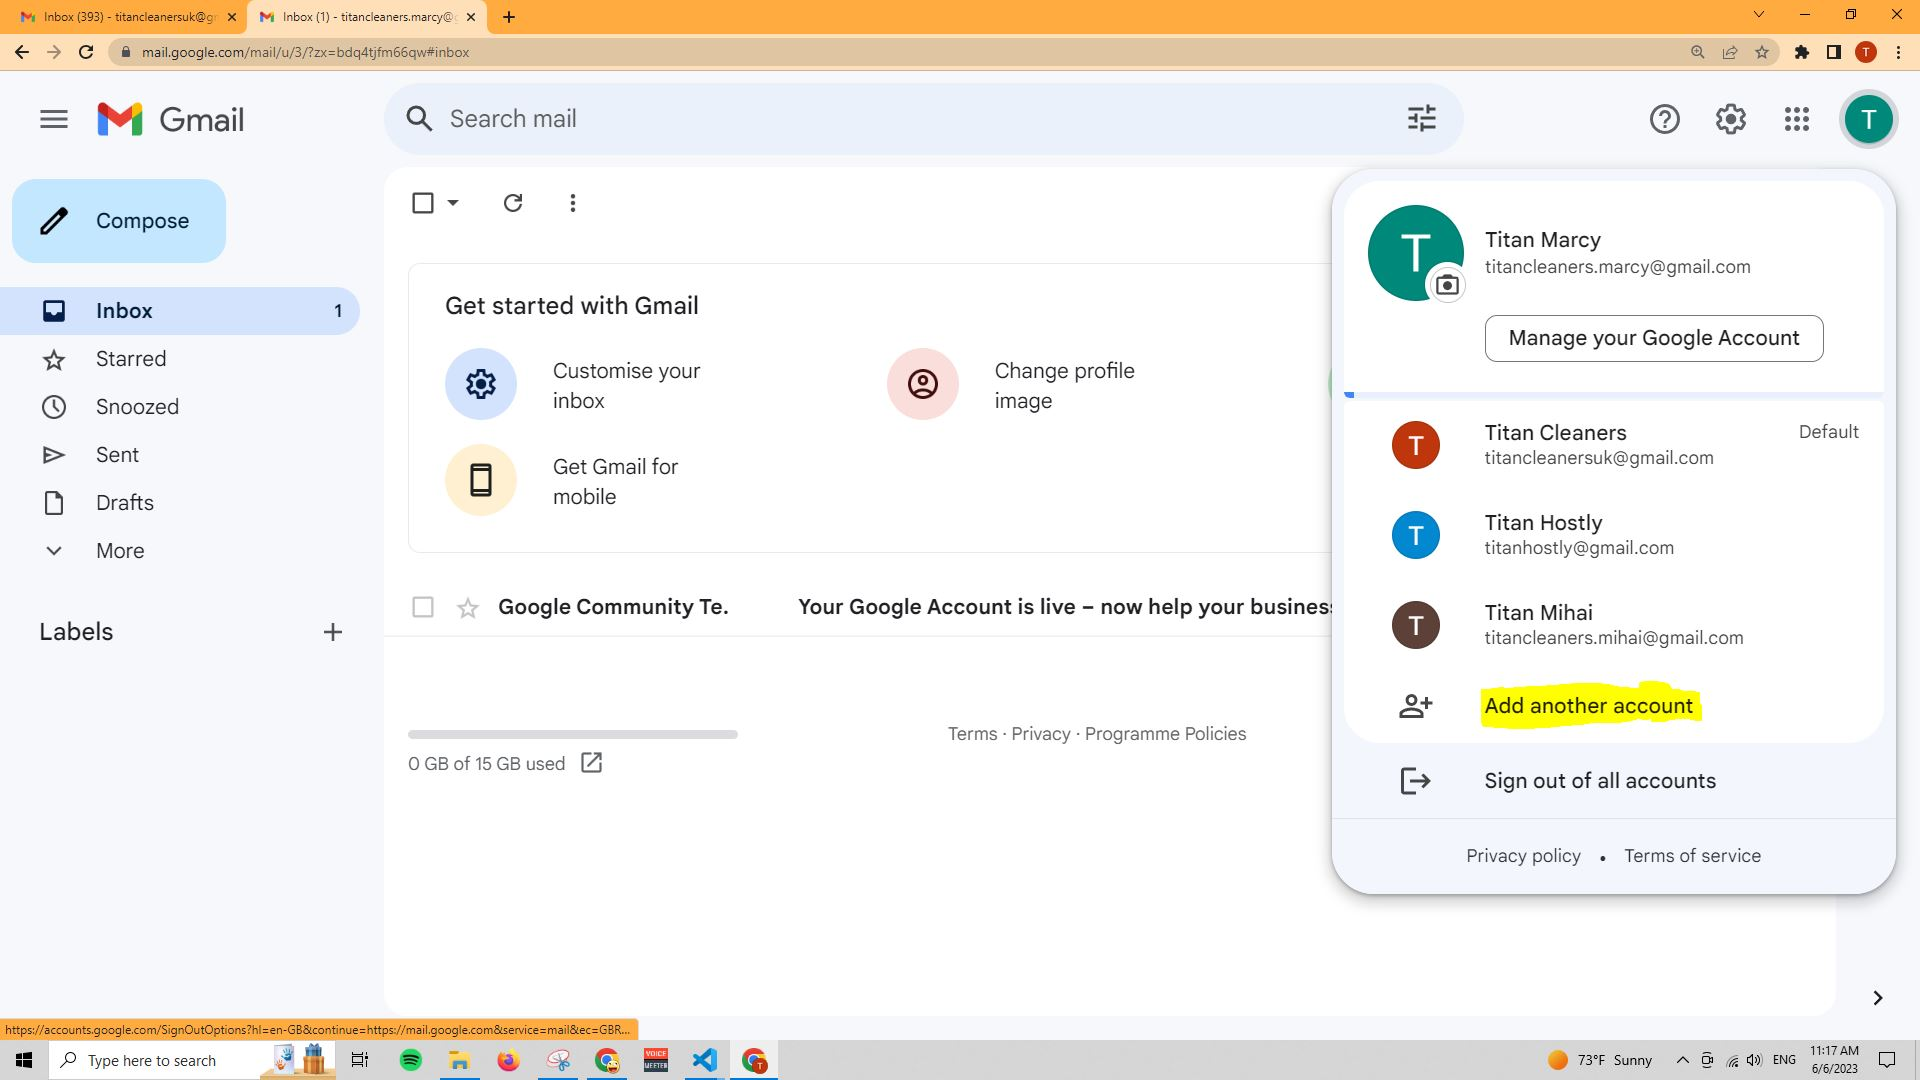
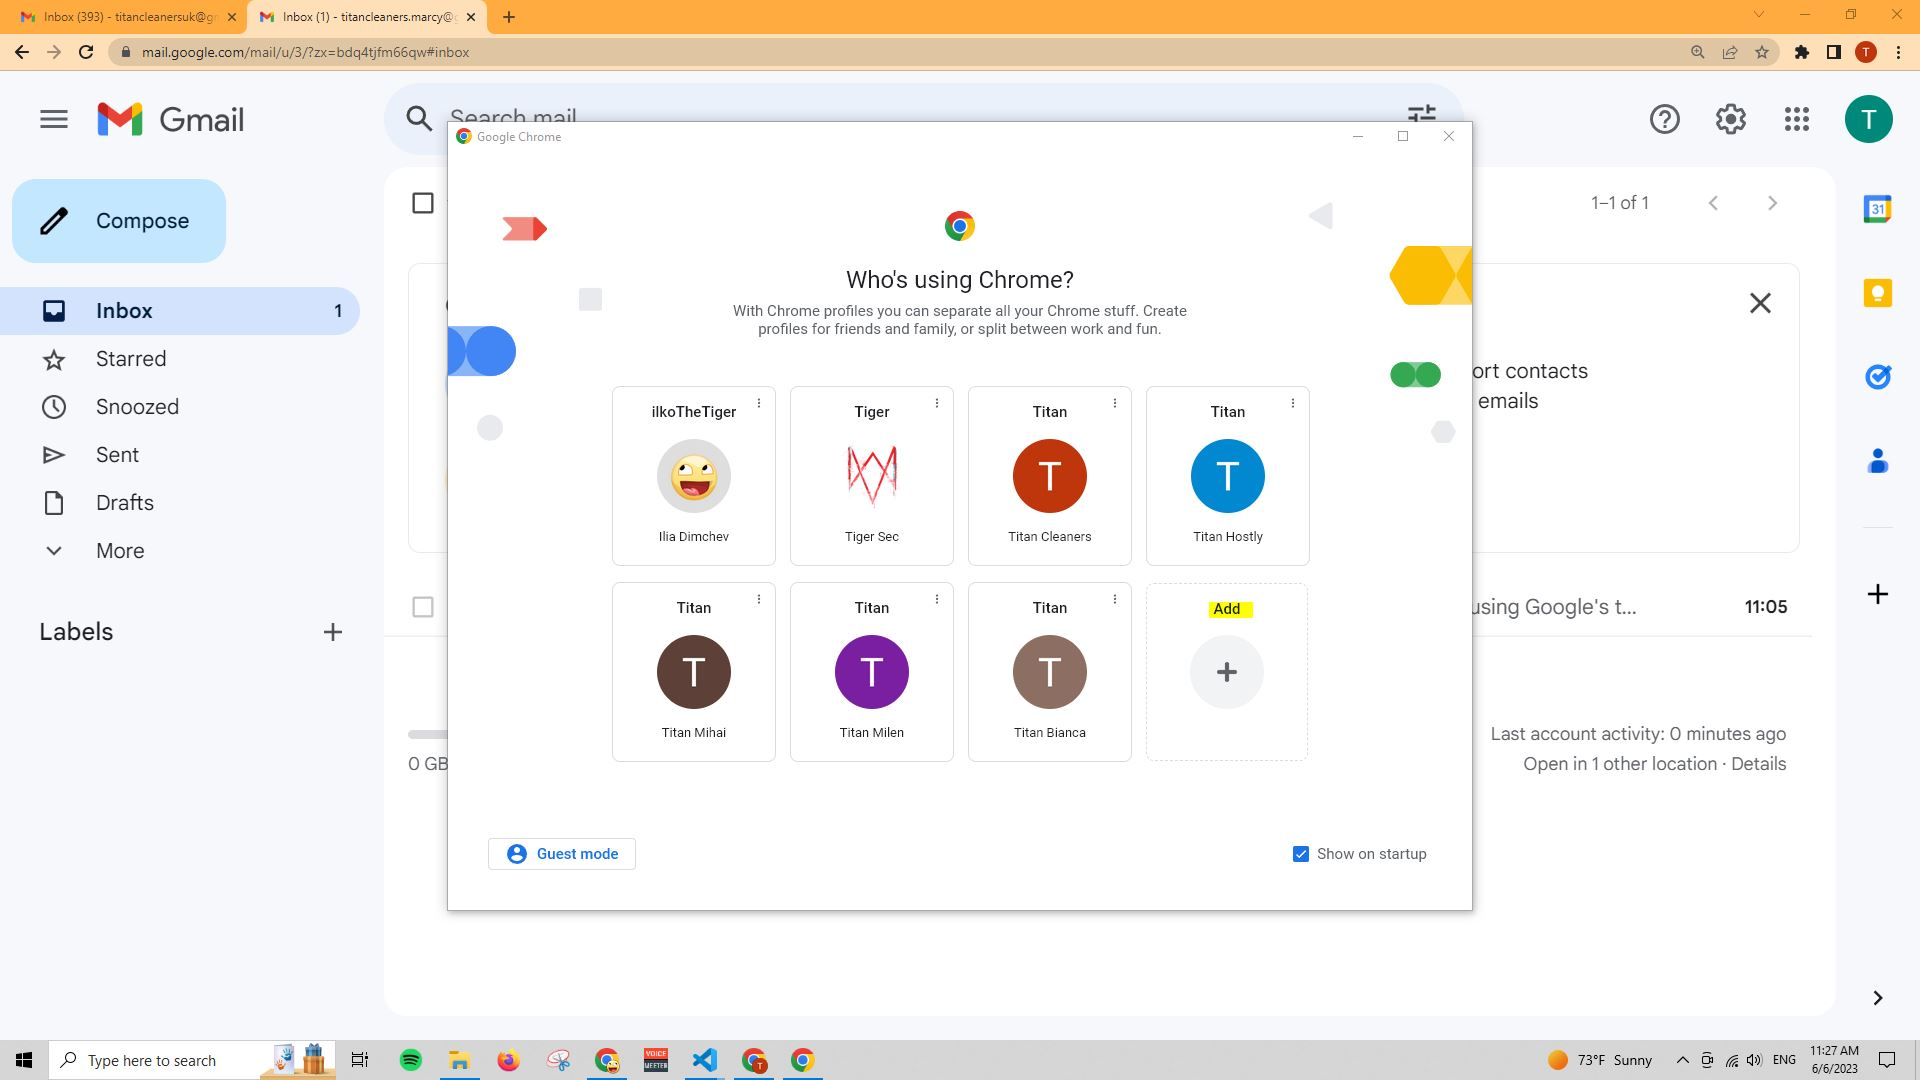
Steps for logging in added

diff --git a/README.md b/README.md
@@ -54,8 +54,14 @@ For that part, we'll be required to create a fresh Gmail account and configure i
 16. On the next step **Turn off features**
 ![Step 17](https://github.com/ilkoTheTiger/Titan-Operations/blob/main/pics/RegisterGoogleAccount/Step17.JPG)
 
-17. Our fresh account is ready to use but not configured yet, press **Reload**
+17. Our fresh account is ready to use but not configured yet, press **Reload** or just close this **Tab** now
 ![Step 18](https://github.com/ilkoTheTiger/Titan-Operations/blob/main/pics/RegisterGoogleAccount/Step18.JPG)
 
-18. To configure it we need to switch to it by clicking on the avatar at the Top-Right and then **Add Another Account**
-![Step 19](https://github.com/ilkoTheTiger/Titan-Operations/blob/main/pics/RegisterGoogleAccount/Step19.JPG)
+18. Right-click on Google Chrome Icon and click on **Google Chrome** then click on **Add** when it asks you for Profile
+ ![Step 19](https://github.com/ilkoTheTiger/Titan-Operations/blob/main/pics/RegisterGoogleAccount/Step19.JPG)
+
+ 18. Click on **Sign In**
+ ![Step 20](https://github.com/ilkoTheTiger/Titan-Operations/blob/main/pics/RegisterGoogleAccount/Step20.JPG)
+
+ 18. Enter the Email Address we just created and its password afterwards
+ ![Step 21](https://github.com/ilkoTheTiger/Titan-Operations/blob/main/pics/RegisterGoogleAccount/Step21.JPG)
